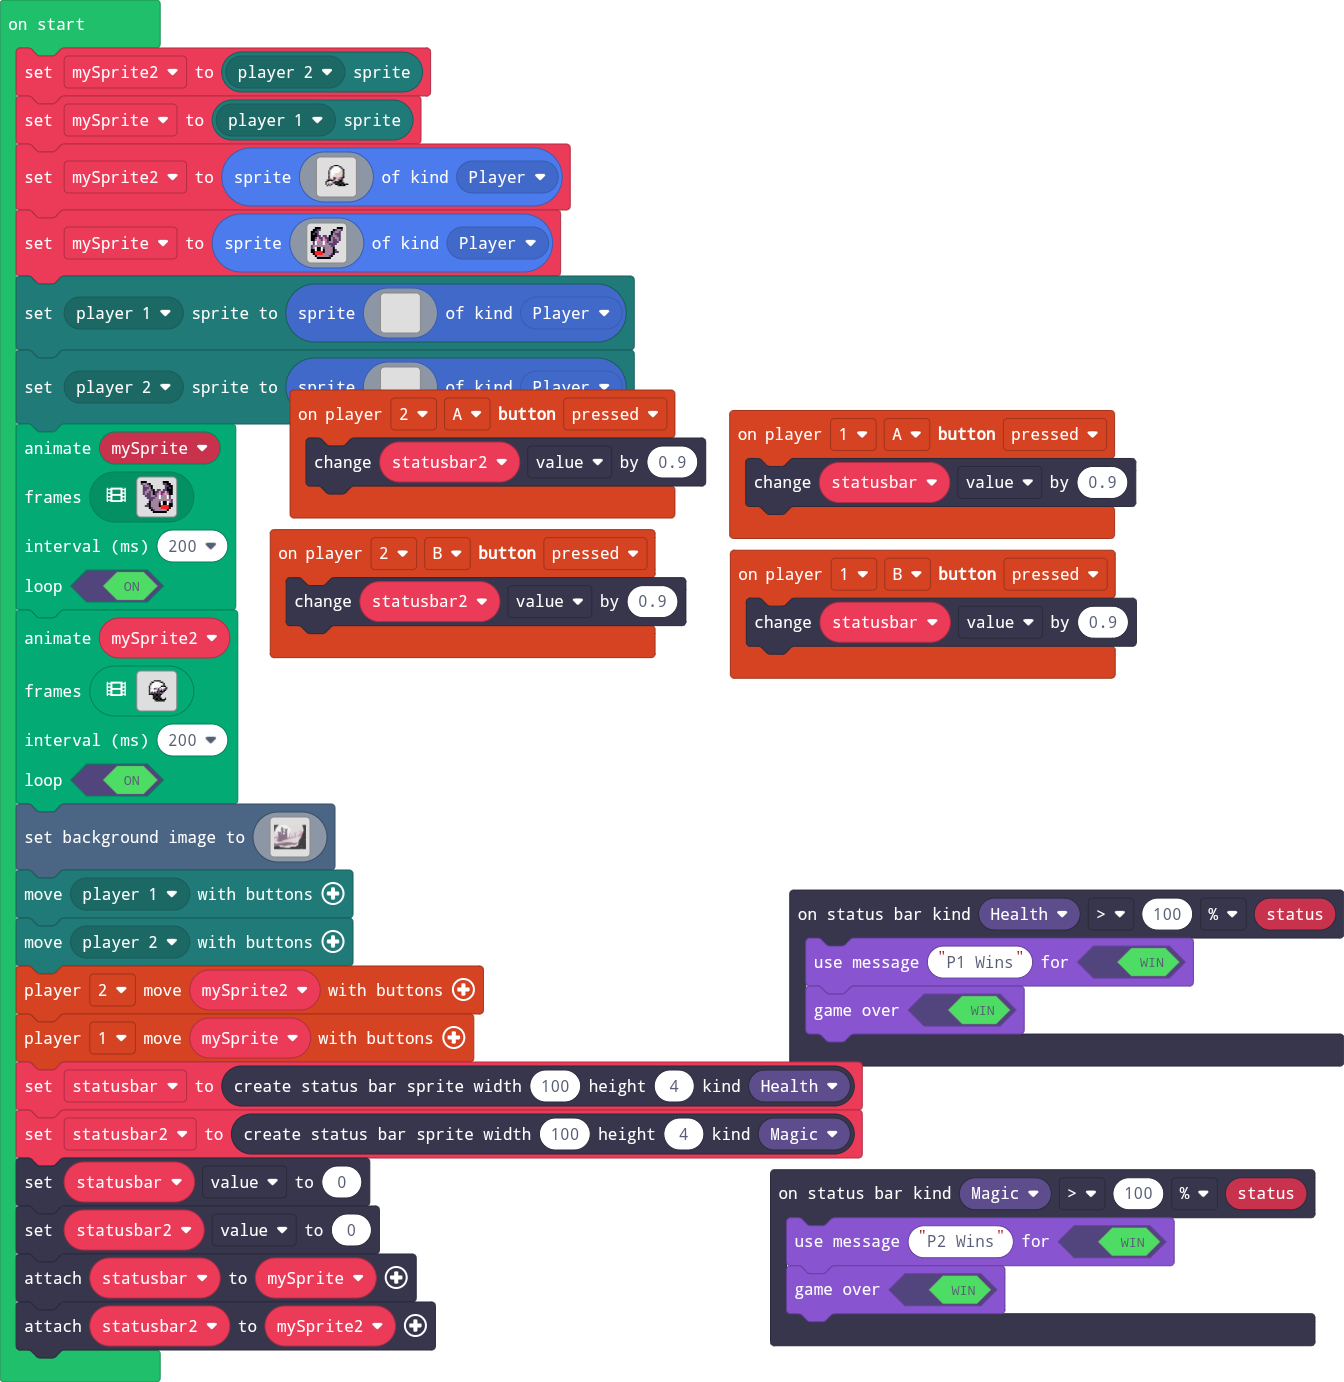
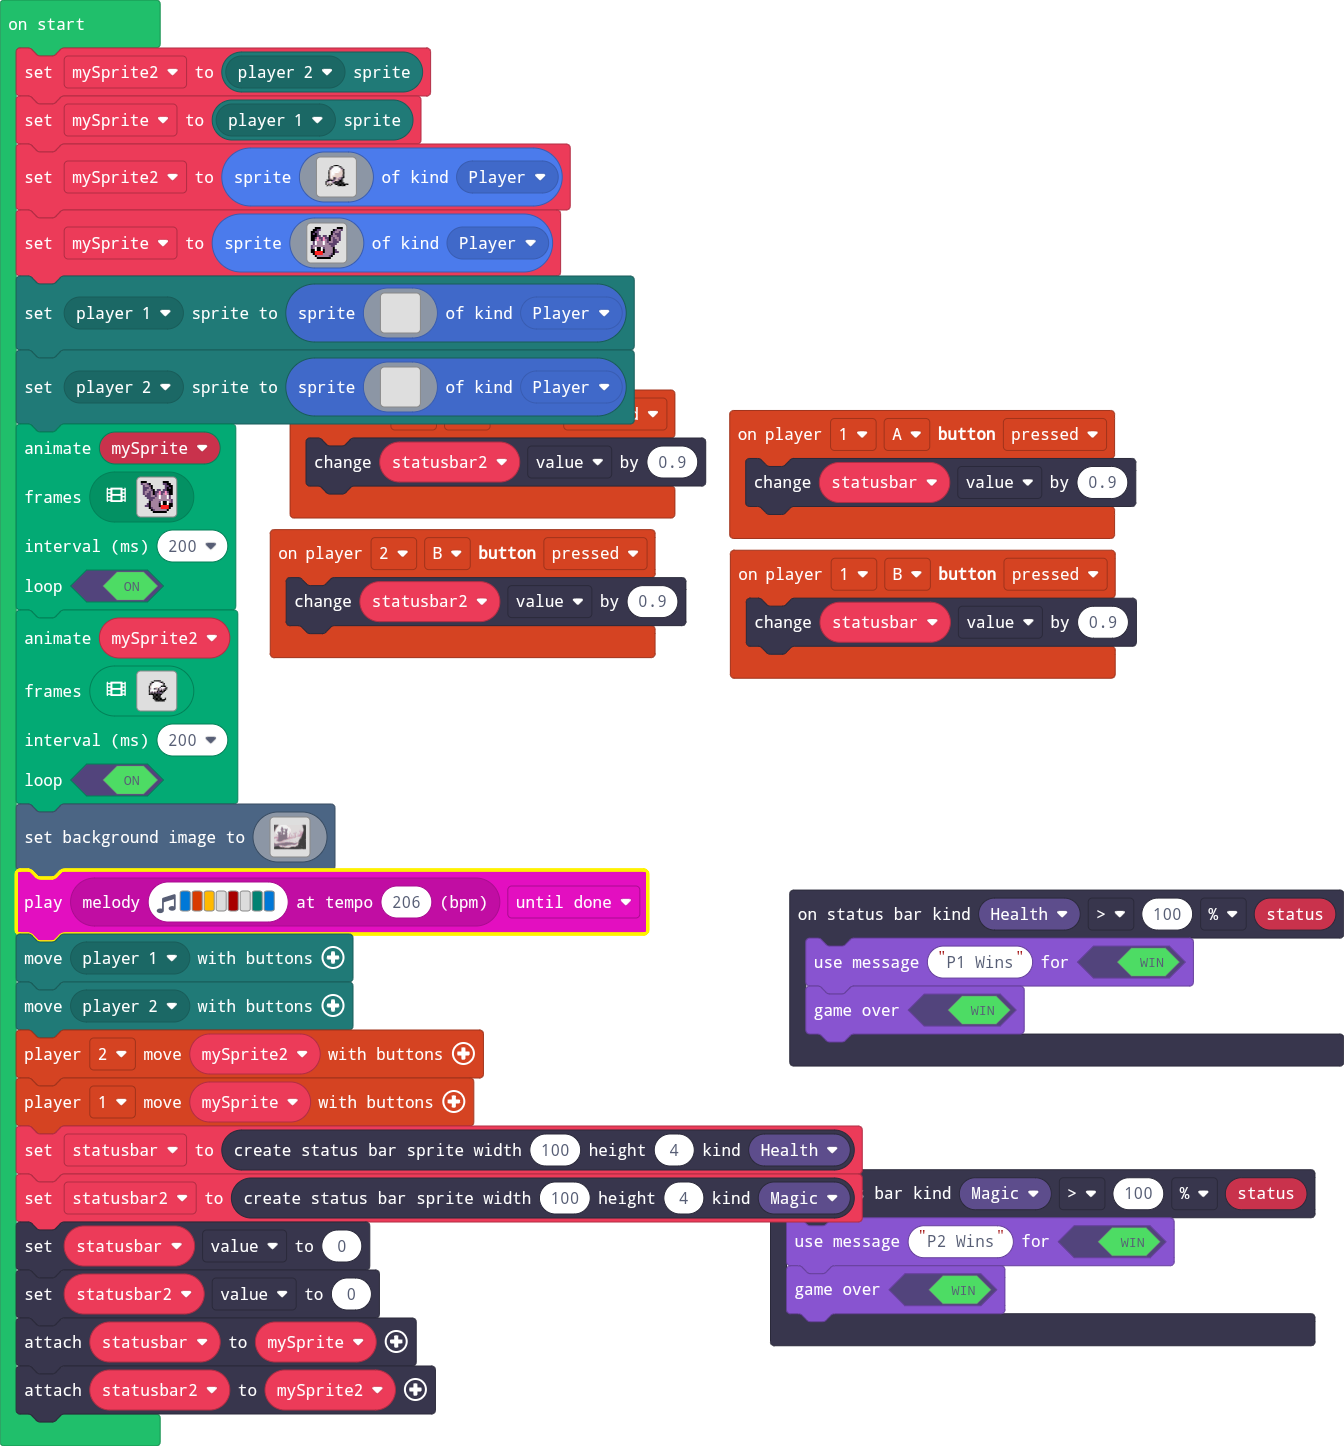
Update pxt.json, main.blocks, main.ts

diff --git a/main.ts b/main.ts
@@ -279,6 +279,7 @@ scene.setBackgroundImage(img`
     fffffffffffffffffffffffffffffffffffffffffffffffffffffffffffffffffffffffffffffffffffffffffffffffffffffffffffffffffffffffffffffbffffbffffdfffcddcfffffffffffffffff
     fffffffffffffffffffffffffffffffffbffffffbffffffffffffffffffffffbfcffffcfffffffffffffffcffffffffffffffffffffffffffffffffffffffffffffffffffffdddffffffffffccffffff
     `)
+music.play(music.stringPlayable("E B A - C5 - F E ", 206), music.PlaybackMode.UntilDone)
 mp.moveWithButtons(mp.playerSelector(mp.PlayerNumber.One))
 mp.moveWithButtons(mp.playerSelector(mp.PlayerNumber.Two))
 controller.player2.moveSprite(mySprite2)
